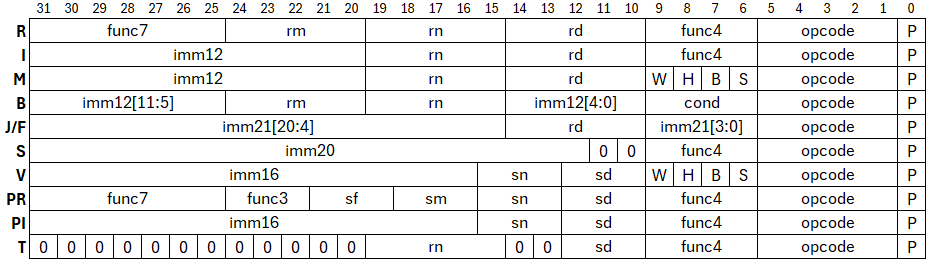
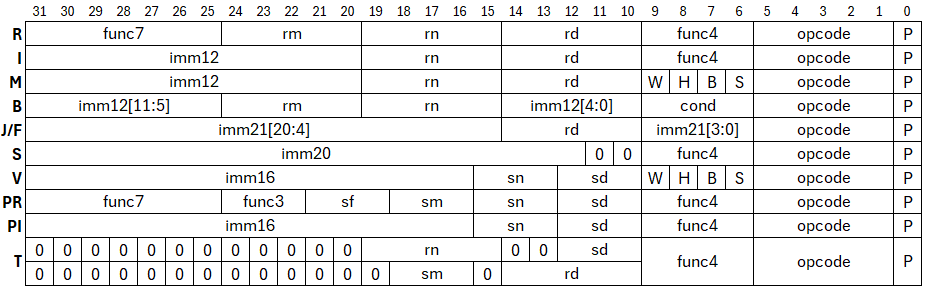
doc(md): correcion del isa.md para instrucciones tipo T + otras correcciones para mayor claridad

Changed region(s): [[0.0, 0.0, 0.9968, 0.9962], [0.0, 0.0906, 0.0302, 0.1509]]

diff --git a/isa.md b/isa.md
@@ -129,7 +129,7 @@
 |**PI**| <code>pseqi sd, sn, imm</code> | $S[sd] \leftarrow (S[sn] == imm)$ |
 |**PI**| <code>pmovi sd, imm</code> | $S[sd] \leftarrow imm$ |
 |**T**| <code>send sd, rn </code> | $S[sd] \leftarrow R[rn]$ |
-|**T**| <code>recv sd, rn </code> | $S[sd] \rightarrow R[rn]$ |
+|**T**| <code>recv rd, sm </code> | $R[rd] \leftarrow S[sm]$ |
 
 - Pseudo instrucciones
 
@@ -163,7 +163,7 @@
 - Tipo **V**: operaciones de boveda
 - Tipo **PR**: operaciones aritemeticas y logicas sobre registros seguros
 - Tipo **PI**: operaciones aritemeticas y logicas sobre registro seguro e inmediato
-- Tipo **T**: operaciones de transporte
+- Tipo **T**: operaciones de traslado
 
 ### Formato de encodificación de instrucciones
 
@@ -283,8 +283,10 @@
 | P | 0 | bit de seguridad |
 | opcode | 1-5 | código de instrucción |
 | func4 | 6-9 | funcionalidad |
-| sd | 10-12 | dir. registro 1|
-| rn | 15-19 | dir. registro 2 |
+| sd | 10-12 | dir. registro 1 (send) |
+| rd | 10-14 | dir. registro 1 (recv) |
+| rn | 15-19 | dir. registro 2 (send) |
+| sm | 16-18 | dir. registro 3 (recv) |
 
 ### Tablas de encodificación
 
@@ -292,16 +294,16 @@
 
 | opcode |  instrucciones  | tipo |
 |--------|-----------------|------|
-| 00000  |   `add`    |**R**|
-| 00001  |   `addi`   |**I**|
-| 00010  |   `padd`   |**PR**|
-| 00011  |   `paddi`  |**PI**|
+| 00000  |   `add`, `sub`, etc    |**R**|
+| 00001  |   `addi`, `subi`, etc  |**I**|
+| 00010  |   `padd`, `psub`, etc  |**PR**|
+| 00011  |   `paddi`, `psubi`, etc|**PI**|
 | 00100  |`ldw`,`ldh`,`ldb`|**M**|
 | 00101  |`stw`,`sth`,`stb`|**M**|
 | 00110  |`ldvw`,`ldvh`,`ldvb`|**V**|
 | 00111  |`stvw`,`stvh`,`stvb`|**V**|
-| 01000  |   `beq`   |**B**|
-| 01001  |   `jal`   |**J**/**F**|
+| 01000  |   `beq`, `bge`, etc   |**B**|
+| 01001  |   `jal`, `call`   |**J**/**F**|
 | 10000  |   `send`, `recv`   |**T**|
 | 10001  |   `login`, `quit`  |**S**|
 
@@ -391,4 +393,4 @@ Para poder acceder al hardware de seguridad se necesita de iniciar sesion, para 
 10  recv dx, r4     # esta instruccion nunca va a ejecutarse
 ```
 
-En caso de haber cerrado sesion, el hardware tiene un limite de ciclos despues de el cuál el hardware de seguridad es deshabilitado.
+En caso de no haber cerrado sesion, el hardware tiene un limite de ciclos despues de el cuál el hardware de seguridad es deshabilitado.
